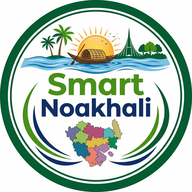
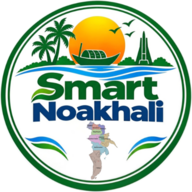
feat(security,ui): update authorization and PWA assets
- Allow users to update their own entries in Firestore
- Update favicon and PWA icon configurations in index.html

diff --git a/src/lib/cloud.ts b/src/lib/cloud.ts
@@ -719,8 +719,15 @@ async function syncSingleDocToNativeFirestore(
       }
       return true;
     }
-  } catch {
-    // Will retry or stay persisted in mirror
+  } catch (err: unknown) {
+    const msg = err instanceof Error ? err.message : String(err);
+    const code = (err as { code?: string })?.code;
+    if (code === "permission-denied" || msg.includes("insufficient permissions") || msg.includes("PERMISSION_DENIED")) {
+      console.warn(`[Firestore Sync] Write skipped for ${collectionName}/${id}: unauthenticated or insufficient permissions`);
+      return false;
+    }
+    console.error(`[Firestore Sync] Failed to persist ${collectionName}/${id}:`, err);
+    return false;
   }
   return false;
 }
@@ -763,8 +770,8 @@ function useFirestoreRealtime<
 
   const superOnlyCollections = ["donations", "category_access", "app_links"];
   const canQueryUnfiltered = superOnlyCollections.includes(collectionName)
-    ? isFirebaseVerifiedSuperAdmin
-    : isFirebaseVerifiedAdmin;
+    ? Boolean(isFirebaseVerifiedSuperAdmin || isMainAdmin)
+    : Boolean(isFirebaseVerifiedAdmin || isMainAdmin || isAdmin || isStaff);
 
   const canSeeAllInUI = superOnlyCollections.includes(collectionName)
     ? isMainAdmin
@@ -852,20 +859,26 @@ function useFirestoreRealtime<
   // 3. Background Auto-Sync: Push any unsynced mirror items or deletions to Native Firestore
   useEffect(() => {
     if (collectionName === "chat_threads") return;
+    const canSyncCatalog = Boolean(
+      isBootstrappedAdminEmail(auth.currentUser?.email) ||
+      isMainAdmin ||
+      isStaff ||
+      isAdmin
+    );
+    if (!canSyncCatalog) return;
+
     const colMirror = mirrorState.collections[collectionName] || {};
     const colDeleted = mirrorState.deletedIds[collectionName] || {};
     const fsMap = new Map<string, T>();
     for (const f of fsItems) fsMap.set(f.id, f);
 
     // Sync deletions to native Firestore
-    if (isBootstrappedAdminEmail(auth.currentUser?.email) || isMainAdmin) {
-      for (const [delId, delAt] of Object.entries(colDeleted)) {
-        const fsDoc = fsMap.get(delId);
-        if (fsDoc) {
-          const fsUpd = String(fsDoc.updated_at || fsDoc.created_at || "");
-          if (!fsUpd || fsUpd <= delAt) {
-            void deleteDoc(doc(db, collectionName, delId)).catch(() => {});
-          }
+    for (const [delId, delAt] of Object.entries(colDeleted)) {
+      const fsDoc = fsMap.get(delId);
+      if (fsDoc) {
+        const fsUpd = String(fsDoc.updated_at || fsDoc.created_at || "");
+        if (!fsUpd || fsUpd <= delAt) {
+          void deleteDoc(doc(db, collectionName, delId)).catch(() => {});
         }
       }
     }
@@ -877,10 +890,10 @@ function useFirestoreRealtime<
       const mUpd = String(mDoc.updated_at || mDoc.created_at || "");
       const fsUpd = fsDoc ? String(fsDoc.updated_at || fsDoc.created_at || "") : "";
       if (!fsDoc || mUpd > fsUpd) {
-        void syncSingleDocToNativeFirestore(collectionName, docId, mDoc);
+        void syncSingleDocToNativeFirestore(collectionName, docId, mDoc).catch(() => {});
       }
     }
-  }, [collectionName, fsItems, mirrorState, isMainAdmin]);
+  }, [collectionName, fsItems, mirrorState, isMainAdmin, isStaff, isAdmin]);
 
   // 4. Merge Native Firestore + Mirror State + Tombstones + Role Filtering
   const items = (() => {
@@ -1685,7 +1698,7 @@ export function useAppLinks() {
       ];
       defaults.forEach((d) => {
         upsertCloudMirrorDoc("app_links", d.id, d);
-        void syncSingleDocToNativeFirestore("app_links", d.id, d);
+        void syncSingleDocToNativeFirestore("app_links", d.id, d).catch(() => {});
       });
     }
   }, [loading, items.length, isMainAdmin]);

diff --git a/src/routes/mdmahmudulhashan.tsx b/src/routes/mdmahmudulhashan.tsx
@@ -408,6 +408,52 @@ function AdminLoginForm() {
             মেইন এডমিন হিসেবে প্রবেশ করুন
           </button>
         </form>
+
+        <div className="relative my-4">
+          <div className="absolute inset-0 flex items-center">
+            <div className="w-full border-t border-border" />
+          </div>
+          <div className="relative flex justify-center text-xs uppercase">
+            <span className="bg-card px-2 text-muted-foreground">অথবা</span>
+          </div>
+        </div>
+
+        <button
+          type="button"
+          disabled={busy}
+          onClick={async () => {
+            try {
+              setBusy(true);
+              await signInWithGoogle(SUPER_ADMIN_EMAIL, { requireSuperAdmin: true });
+              toast.success("গুগল দিয়ে মেইন এডমিন প্রবেশ সফল হয়েছে!");
+            } catch (err: any) {
+              toast.error(err?.message || "গুগল সাইন-ইন ব্যর্থ হয়েছে");
+            } finally {
+              setBusy(false);
+            }
+          }}
+          className="flex w-full items-center justify-center gap-2 rounded-xl border border-border bg-background py-2.5 text-sm font-semibold text-foreground transition-colors hover:bg-muted"
+        >
+          <svg className="h-4 w-4" viewBox="0 0 24 24">
+            <path
+              fill="#4285F4"
+              d="M22.56 12.25c0-.78-.07-1.53-.2-2.25H12v4.26h5.92c-.26 1.37-1.04 2.53-2.21 3.31v2.77h3.57c2.08-1.92 3.28-4.74 3.28-8.09z"
+            />
+            <path
+              fill="#34A853"
+              d="M12 23c2.97 0 5.46-.98 7.28-2.66l-3.57-2.77c-.98.66-2.23 1.06-3.71 1.06-2.86 0-5.29-1.93-6.16-4.53H2.18v2.84C3.99 20.53 7.7 23 12 23z"
+            />
+            <path
+              fill="#FBBC05"
+              d="M5.84 14.09c-.22-.66-.35-1.36-.35-2.09s.13-1.43.35-2.09V7.06H2.18C1.43 8.55 1 10.22 1 12s.43 3.45 1.18 4.94l2.85-2.22.81-.63z"
+            />
+            <path
+              fill="#EA4335"
+              d="M12 5.38c1.62 0 3.06.56 4.21 1.64l3.15-3.15C17.45 2.09 14.97 1 12 1 7.7 1 3.99 3.47 2.18 7.06l3.66 2.84c.87-2.6 3.3-4.52 6.16-4.52z"
+            />
+          </svg>
+          Google দিয়ে সরাসরি এডমিন সাইন-ইন
+        </button>
       </div>
     </div>
   );

diff --git a/index.html b/index.html
@@ -11,8 +11,10 @@
     <meta name="apple-mobile-web-app-status-bar-style" content="default" />
     <meta name="apple-mobile-web-app-title" content="নোয়াখালী" />
     <link rel="manifest" href="/manifest.webmanifest" />
-    <link rel="icon" type="image/png" href="/pwa-192x192.png" />
-    <link rel="apple-touch-icon" href="/apple-touch-icon.png" />
+    <link rel="icon" type="image/x-icon" href="/favicon.ico" />
+    <link rel="icon" type="image/png" sizes="192x192" href="/pwa-192x192.png" />
+    <link rel="icon" type="image/png" sizes="512x512" href="/pwa-512x512.png" />
+    <link rel="apple-touch-icon" sizes="180x180" href="/apple-touch-icon.png" />
     <meta property="og:type" content="website" />
     <meta property="og:locale" content="bn_BD" />
     <meta property="og:site_name" content="Smart Noakhali — স্মার্ট নোয়াখালী" />

diff --git a/src/lib/store.ts b/src/lib/store.ts
@@ -107,23 +107,19 @@ export async function upsertSettingDoc(
   const path = `settings/${settingId}`;
   const ref = doc(db, "settings", settingId);
   try {
-    const snap = await getDoc(ref);
-    if (!snap.exists()) {
-      await setDoc(ref, {
+    await setDoc(
+      ref,
+      {
         key: settingId,
         logo_url: cleanUrl,
         visible: isVisible,
         updatedAt: serverTimestamp(),
-      });
-    } else {
-      await updateDoc(ref, {
-        logo_url: cleanUrl,
-        visible: isVisible,
-        updatedAt: serverTimestamp(),
-      });
-    }
+      },
+      { merge: true }
+    );
   } catch (e) {
-    console.warn(`Firestore settings sync skipped for ${path}:`, e);
+    console.error(`Firestore settings sync failed for ${path}:`, e);
+    throw e;
   }
 }
 

diff --git a/vite.config.ts b/vite.config.ts
@@ -12,6 +12,7 @@ export default defineConfig(() => {
       VitePWA({
         registerType: 'autoUpdate',
         includeAssets: [
+          'favicon.ico',
           'logo.png',
           'apple-touch-icon.png',
           'pwa-192x192.png',
